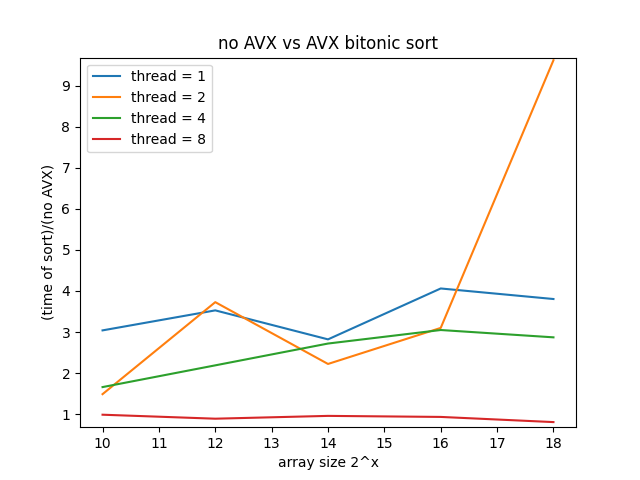
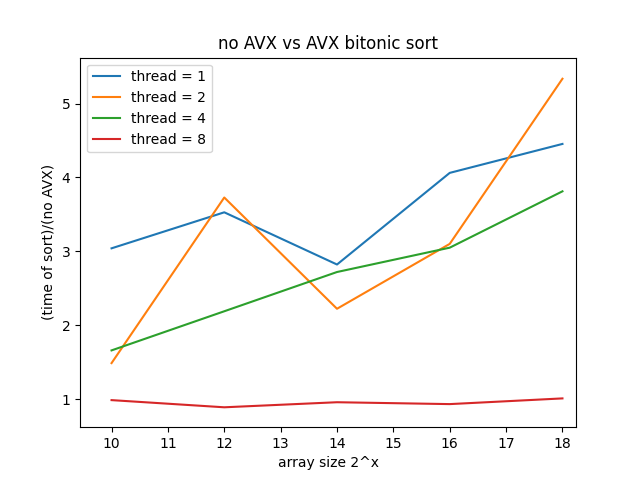
modify data

diff --git a/perf/draw.py b/perf/draw.py
@@ -1,12 +1,12 @@
 import matplotlib.pyplot as plt
 x=[10, 12, 14, 16, 18]
 
-y1=[3.041062,3.528270,2.822178,4.061632,3.804712]
-y2=[1.488200,3.728510,2.223396,3.101196,9.619101]
-y3=[1.660198,2.189551,2.720566,3.049943,2.871585]
-y4=[0.987527,0.890520,0.958986,0.933661,0.807668]
+y1=[3.041062,3.528270,2.822178,4.061632,4.453378]
+y2=[1.488200,3.728510,2.223396,3.101196,5.335146]
+y3=[1.660198,2.189551,2.720566,3.049943,3.812188]
+y4=[0.987527,0.890520,0.958986,0.933661,1.010783]
 
-plt.ylim(1, 10)
+plt.ylim(1, 6)
 # plt.xlim(0, 8192)
 # plt.scatter(x1, y1)
 # plt.scatter(x2, y2)
